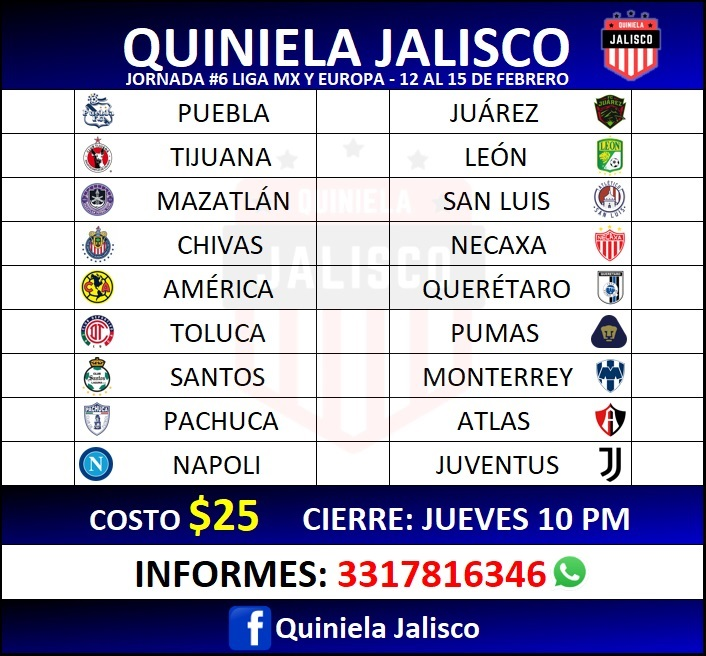
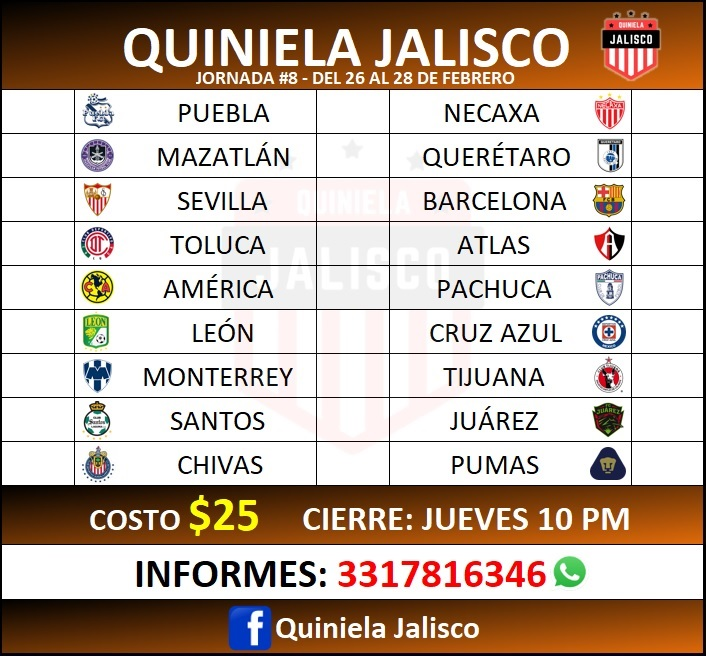
Jornada 8 C21

diff --git a/styles.css b/styles.css
@@ -7,7 +7,7 @@
 
 .quiniela{
     margin: auto;
-    background-image: url("https://scontent.fgdl9-1.fna.fbcdn.net/v/t1.15752-9/150466288_1282242822145968_961814854363877914_n.png?_nc_cat=103&ccb=3&_nc_sid=ae9488&_nc_eui2=AeGD7n_E9hzuG_nwfp4fdCa3QhwKAEtZLhtCHAoAS1kuG4Ig_KHFIkvPlm5VbPHgx0Ck6Mwwt0Nk65kXm3ShhLBz&_nc_ohc=vphtXbalY44AX8blDd-&_nc_ht=scontent.fgdl9-1.fna&oh=906ae17af66103bb1e177ec5eb756571&oe=604DC227");
+    background-image: url("https://scontent.fgdl9-1.fna.fbcdn.net/v/t1.15752-9/151972639_148758123744578_7333660492901974176_n.png?_nc_cat=102&ccb=3&_nc_sid=ae9488&_nc_eui2=AeHDtbjOXKGJPSelK9Ji1i1B0du4u3eVgp3R27i7d5WCndB0E6ryobzqSdQVVheNBIpG6jCT7c6a0x2AdCm-MpaV&_nc_ohc=K_78yIaA3AoAX9OZJ_u&_nc_ht=scontent.fgdl9-1.fna&oh=551c86e50d4d505f43077e3076aa172f&oe=60585067");
     background-size: 100%;
     background-repeat: no-repeat;
     max-width: 400px;
@@ -84,8 +84,8 @@ h1{
     margin-top: 8%;
     border: solid 1px black;
     border-radius: 0 0 20px 20px;
-    background: -webkit-linear-gradient(0.04turn, black  ,rgb(3,170,2) 80%);
-    background: linear-gradient(0.04turn, black  ,rgb(3,170,2) 80%);
+    background: -webkit-linear-gradient(0.04turn, black  ,rgb(215,104,14) 80%);
+    background: linear-gradient(0.04turn, black  ,rgb(215,104,14) 80%);
     font-size: x-large;
 }
 
